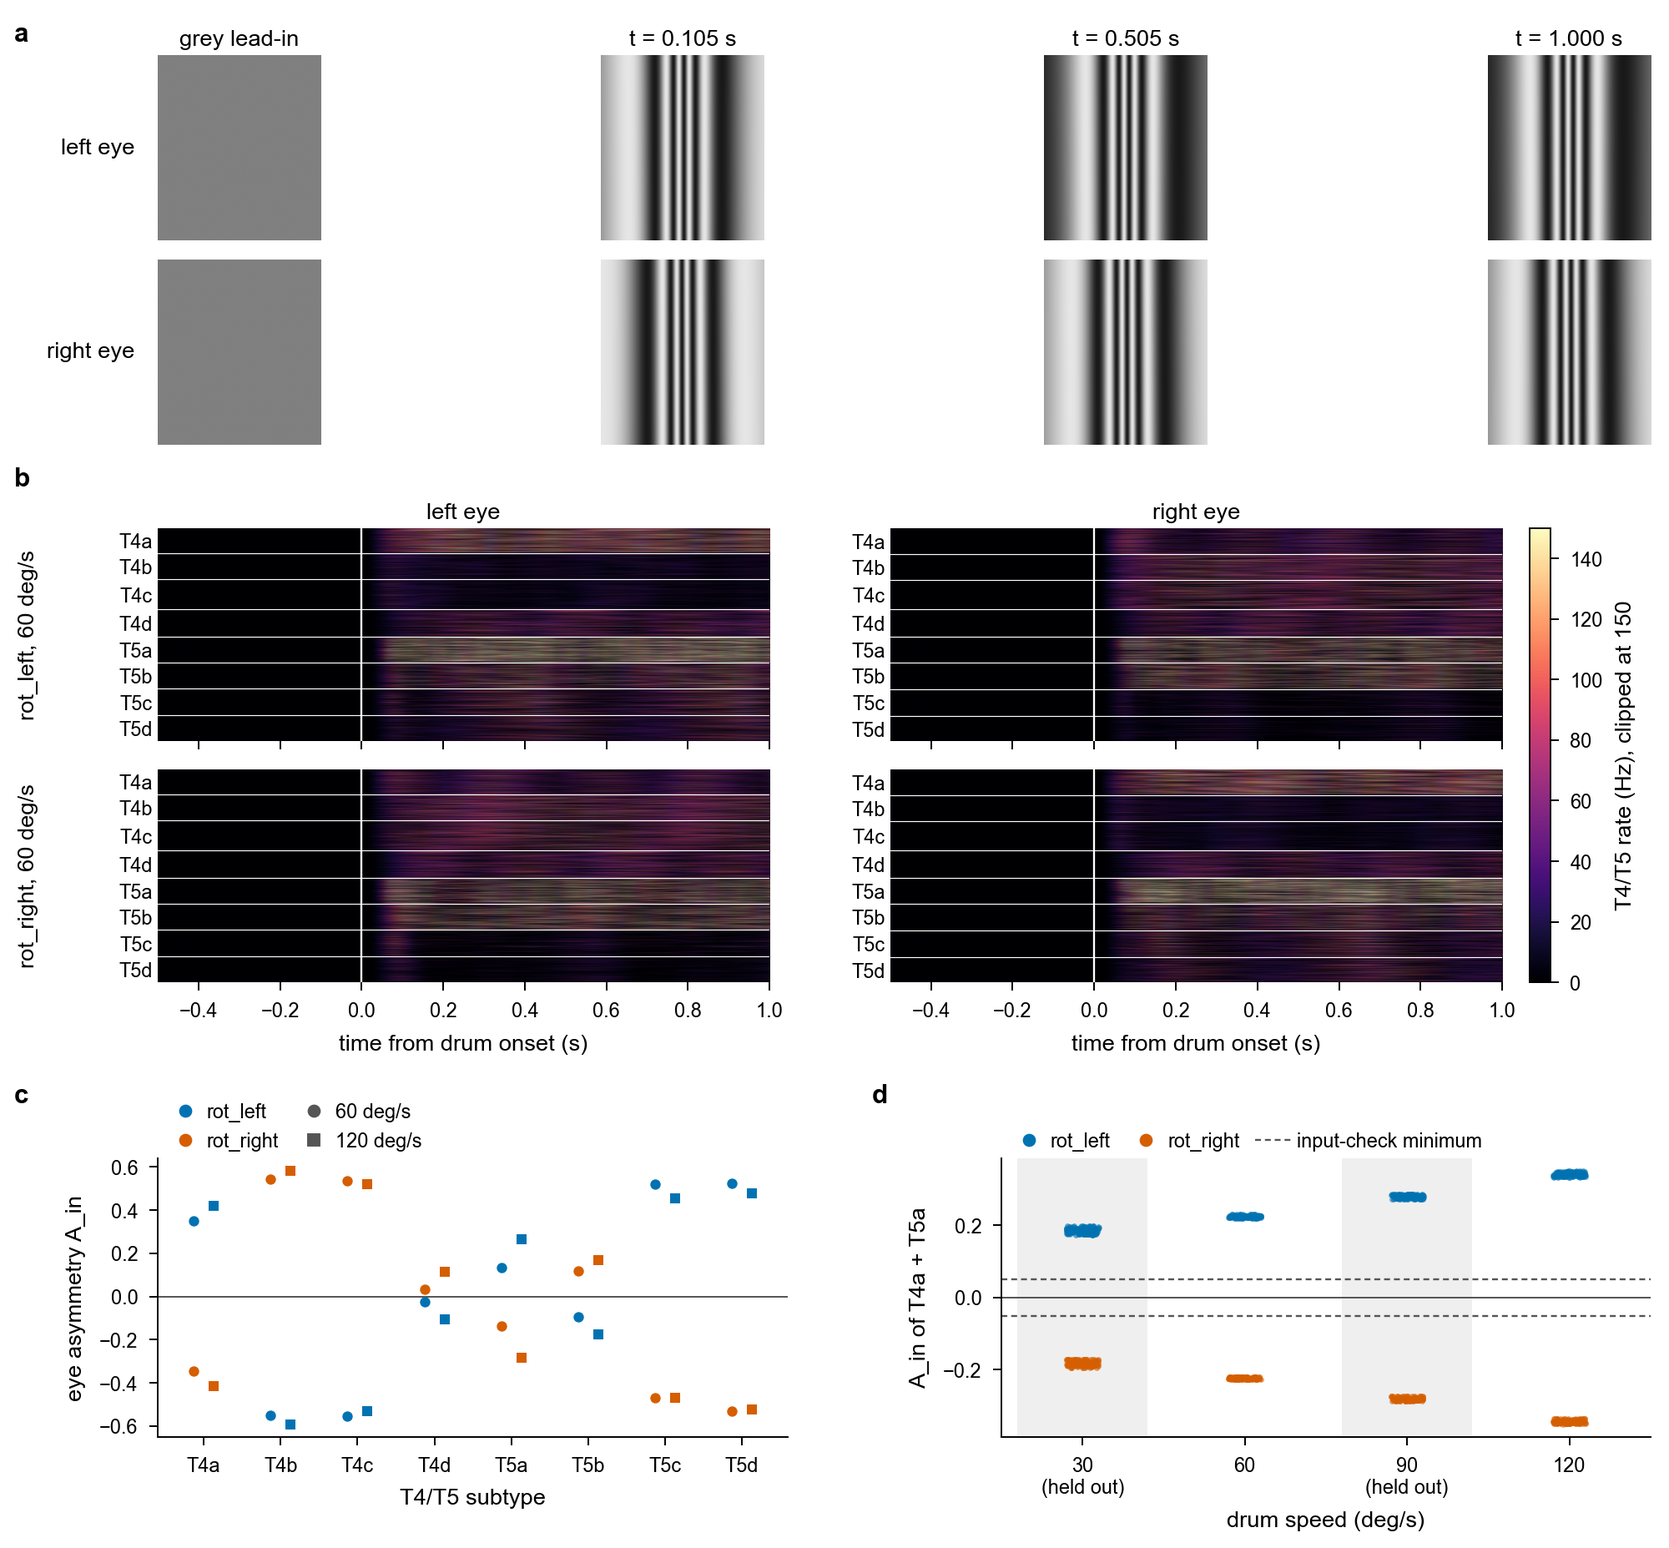
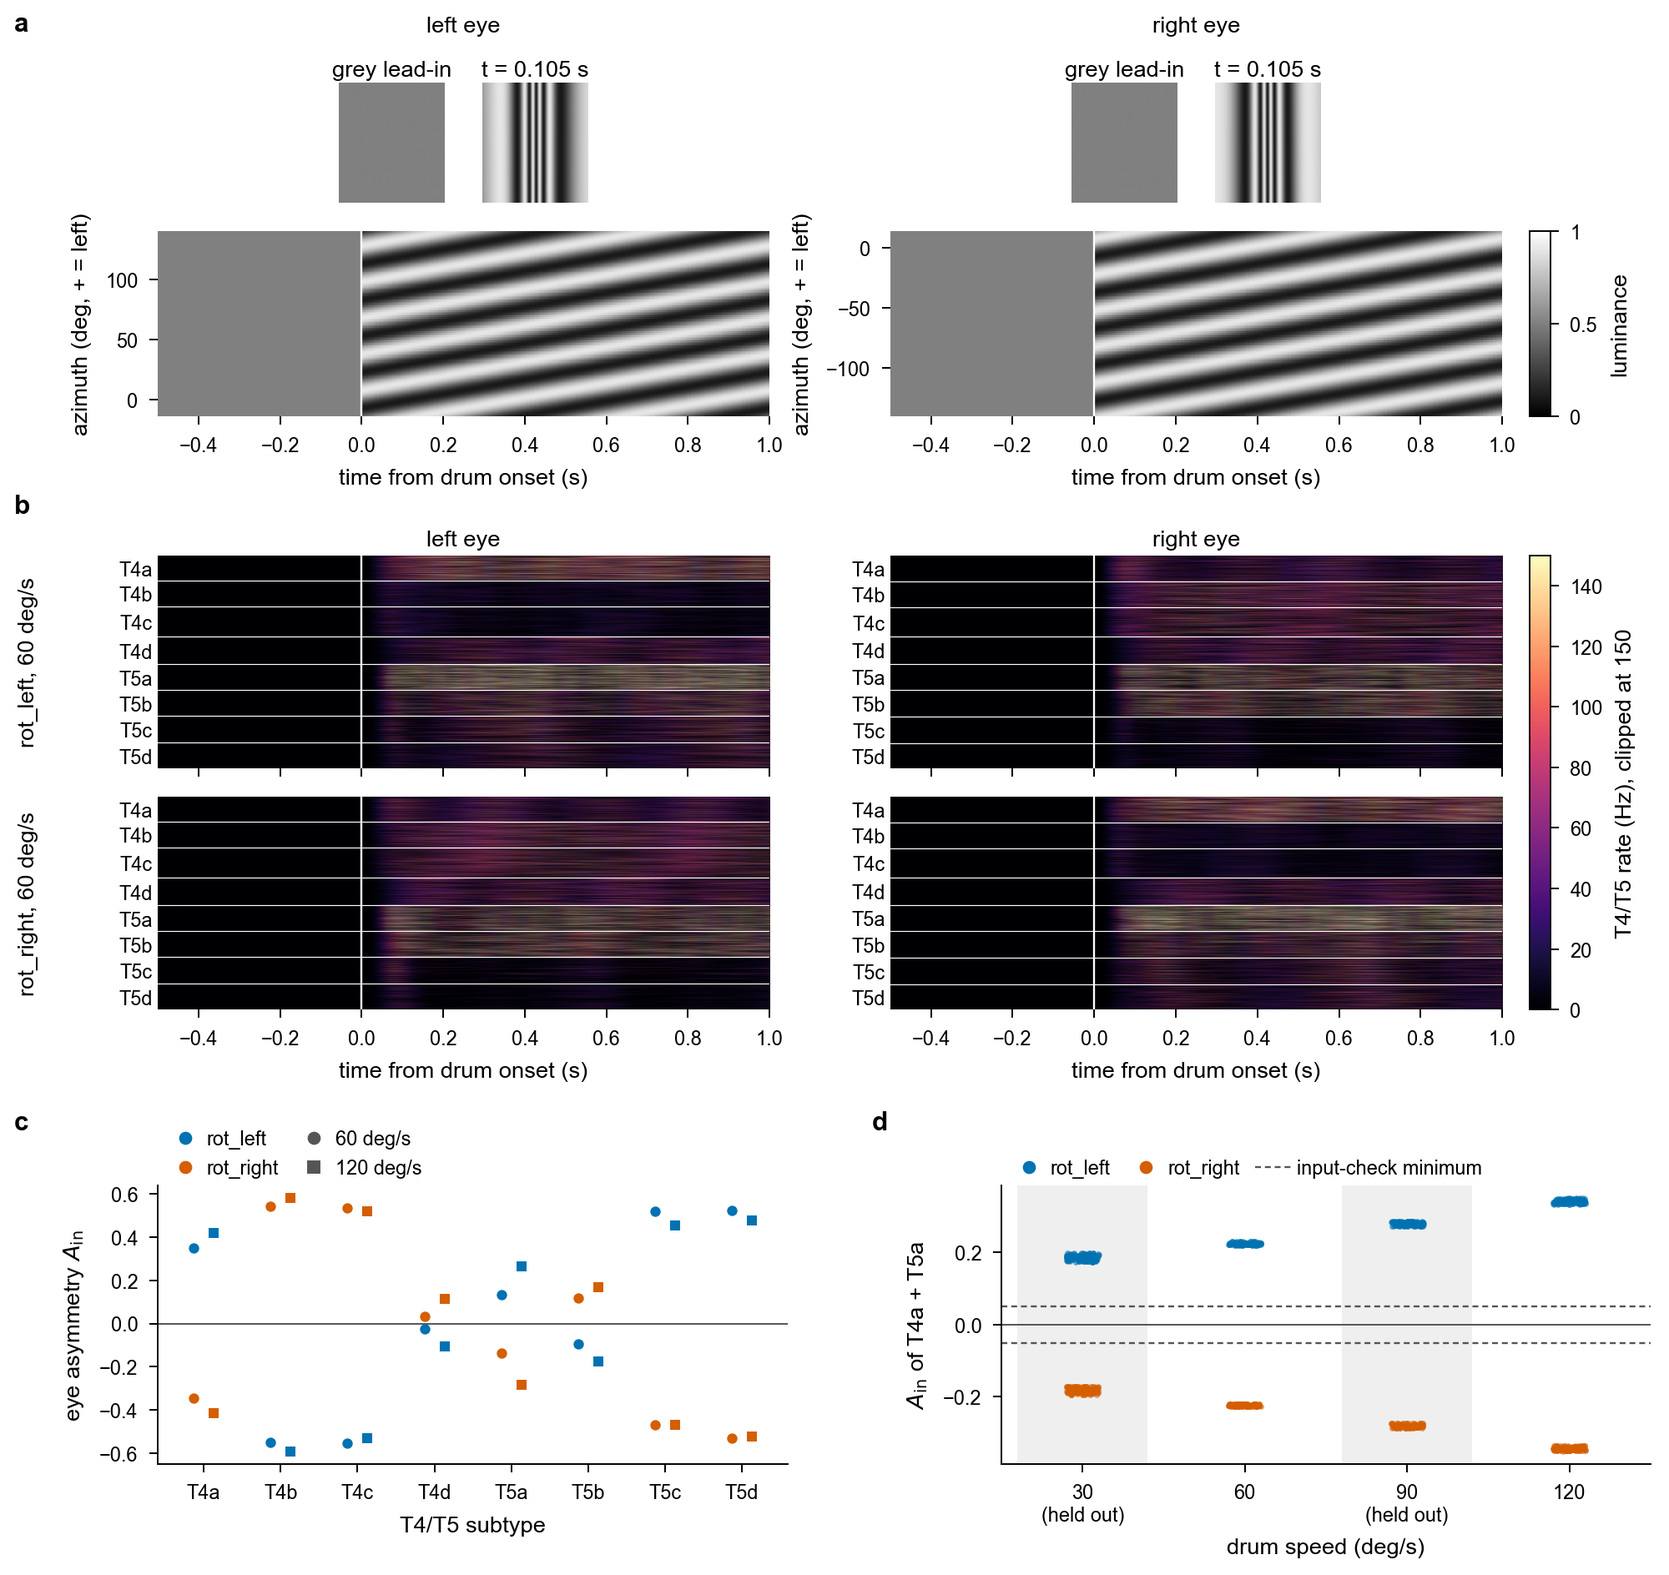
README Figure 7a as a space-time plot of the middle image row; A_in with a subscript
At 60 deg/s the grating repeats every 0.5 s, so the frames at 0.505 s and 1.000 s were almost identical and panel a
showed no motion. Panel a now has one column per eye, aligned with its heat maps in b: the grey lead-in and first
stimulus-time images, and below them a space-time plot of row H // 2 of every frame of the trial against the azimuth
of tasks/t0_stimuli.py (+ = left; monotonic along the row, drawn with pcolormesh), each interval over the same time
bin as in b. eye_images(n_intervals) computes each full frame by the same S.luminance call and keeps only that row;
check_space_time stops unless the row equals the hashed frame at every stored interval. Panels c and d label A_in
with a mathtext subscript. docs/figures/README.md: the fig7 row regenerated (SHA-256, pixels, bytes, description).

diff --git a/scripts/readme_visual_input.py b/scripts/readme_visual_input.py
@@ -33,8 +33,10 @@ figure: Figure 7 of the README, in the style of scripts/readme_figures.py (whose
 render_png it imports; 180 mm wide, exactly 2000 px, at most 1.5 MB; --out inside the local preview folder refused;
 rule 13). It stops unless every render's SHA-256 and that of boundary_meta.npz equal `provenance` of visual_input.json
 and the recomputed eye images equal its `eye_images` entry. Nothing is computed about the test split.
-- a: what the eyes see, rot_left at 60 deg/s, phase 0: the raw eye images of `eye_images()` (grey lead-in and three
-  stimulus times), left and right eye;
+- a: what the eyes see, rot_left at 60 deg/s, phase 0, one column per eye above its heat maps of b: the raw eye images
+  of `eye_images()` at the grey lead-in and the first stimulus time, and a space-time plot of the middle image row
+  (row H // 2 of every frame of the trial, against the azimuth of tasks/t0_stimuli.py, + = left), each interval over
+  the same time bin as in b; the row equals the hashed frames at their intervals;
 - b: the T4/T5 boundary rates of rot_left and rot_right at 60 deg/s, left and right eye, neurons grouped by subtype
   (within a subtype the stored order, as scripts/f5_stageA_preview.py), magma from 0 to `heatmap_vmax_hz`;
 - c: the per-subtype eye asymmetry of `asymmetry`, the four rotation renders;
@@ -78,11 +80,12 @@ KEYS = tuple([R.render_key(s, v, 0) for v in GATE_SPEEDS for s in ROT] + [R.rend
 ROT_KEYS = KEYS[:4]
 EYES = ("L", "R")
 FIG7 = "fig7_visual_input.png"
-FIG7_HEIGHT_MM = 167
+FIG7_HEIGHT_MM = 170
 # Copied from scripts/viz_activity_figure.py (NEG, POS and DIR_COL, the direction colours of Figure 3), not imported:
 # that module imports pandas and viz_anatomy. Okabe-Ito blue and vermillion.
 NEG, POS = "#0072B2", "#D55E00"
 DIR_COL = {"rot_right": POS, "rot_left": NEG}
+A_IN_LABEL = {"c": r"eye asymmetry $A_\mathrm{in}$", "d": r"$A_\mathrm{in}$ of T4a + T5a"}    # y labels of 7c, 7d
 SPEED_MARKER = dict(zip(GATE_SPEEDS, ("o", "s")))         # Figure 7c: marker shape by drum speed
 
 
@@ -236,10 +239,13 @@ def eye_images_spec():
     return ks, consts["N_GREY"], consts["DT"]
 
 
-def eye_images():
-    """The raw eye images of `eye_images()` in scripts/f5_stageA_preview.py, recomputed by its code: (entry, lums). entry
-    is the `eye_images` entry of visual_input.json (hashes, no arrays); lums the luminance arrays (eye, row, column) in
-    the order of entry["images"]. Used by `export` (entry) and `figure` (both)."""
+def eye_images(n_intervals=None):
+    """The raw eye images of `eye_images()` in scripts/f5_stageA_preview.py, recomputed by its code: (entry, lums,
+    space_time). entry is the `eye_images` entry of visual_input.json (hashes, no arrays); lums the luminance arrays
+    (eye, row, column) in the order of entry["images"]. With n_intervals, space_time holds Figure 7a's space-time data:
+    row H // 2 of the full frame at every interval 0..n_intervals-1, each frame computed by the same S.luminance call
+    and dropped after its row is kept (rows, (eye, interval, column)), and the azimuth of that row (deg, + = left, of
+    S.azimuth); otherwise None. Used by `export` (entry) and `figure` (all three)."""
     import mujoco
 
     from body.flygym_body import FlightBody
@@ -252,16 +258,23 @@ def eye_images():
     b = FlightBody(spawn_pos=(0, 0, 100), spawn_yaw=0.0, legs="tuck", enable_vision=True)
     mujoco.mj_forward(b.m, b.d)
     rays = S.camera_rays(b.m, b.d, b.root)
-    out, lums = [], []
-    for k in ks:
+    mid = rays.shape[1] // 2
+    out, lums, rows = {}, {}, []
+    for k in sorted(set(ks) | set(range(n_intervals or 0))):
         t = None if k < n_grey else (k - n_grey + 1) * dt
         lum = S.luminance(2, t, rays, tf_hz=60 / S.WAVELENGTH_DEG)
-        lums.append(lum)
-        out.append(dict(interval=k, t_s=t, shape=list(lum.shape), dtype=str(lum.dtype),
-                        sha256=hashlib.sha256(np.ascontiguousarray(lum).tobytes()).hexdigest()))
-    return dict(key=key, source="scripts/f5_stageA_preview.py eye_images() (recomputed; the images are not stored)",
-                eyes=["left", "right"], hash_of="np.ascontiguousarray(lum).tobytes(), lum of shape (eye, row, column)",
-                images=out), lums
+        if k < (n_intervals or 0):
+            rows.append(lum[:, mid].copy())
+        if k in ks:
+            lums[k] = lum
+            out[k] = dict(interval=k, t_s=t, shape=list(lum.shape), dtype=str(lum.dtype),
+                          sha256=hashlib.sha256(np.ascontiguousarray(lum).tobytes()).hexdigest())
+    entry = dict(key=key, source="scripts/f5_stageA_preview.py eye_images() (recomputed; the images are not stored)",
+                 eyes=["left", "right"], hash_of="np.ascontiguousarray(lum).tobytes(), lum of shape (eye, row, column)",
+                 images=[out[k] for k in ks])
+    space_time = None if not n_intervals else dict(rows=np.stack(rows, axis=1), row=mid,
+                                                   azimuth_deg=S.azimuth(rays[:, mid]))
+    return entry, [lums[k] for k in ks], space_time
 
 
 def export_csv():
@@ -368,14 +381,23 @@ def check_inputs(d, renders=RENDERS, meta=META):
         raise SystemExit("inputs differ from visual_input.json (nothing written):\n" + "\n".join(bad))
 
 
+def check_space_time(entry, lums, space_time):
+    """Stop unless, at every interval of entry["images"], the space-time row equals row space_time["row"] of the hashed
+    frame (np.array_equal)."""
+    for im, lum in zip(entry["images"], lums):
+        a, b = space_time["rows"][:, im["interval"]], lum[:, space_time["row"]]
+        if not (a.dtype == b.dtype and np.array_equal(a, b)):
+            raise SystemExit(f"interval {im['interval']}: the space-time row differs from the hashed frame")
+
+
 def read_csv(path=OUT_CSV):
     with open(path, newline="") as f:
         return list(csv.DictReader(f))
 
 
-def draw_fig7(d, rows, lums, rates, tcode, fw_types, held_out):
-    """d: visual_input.json; rows: input_checks.csv; lums: the eye images in the order of d["eye_images"]["images"];
-    rates[key][eye]: the renders of the heat-map keys; tcode, fw_types: boundary_meta.npz; held_out: drum speeds."""
+def draw_fig7(d, rows, lums, space_time, rates, tcode, fw_types, held_out):
+    """d: visual_input.json; rows: input_checks.csv; lums, space_time: of eye_images(); rates[key][eye]: the renders of
+    the heat-map keys; tcode, fw_types: boundary_meta.npz; held_out: drum speeds."""
     import matplotlib.pyplot as plt
     from matplotlib.lines import Line2D
 
@@ -389,36 +411,58 @@ def draw_fig7(d, rows, lums, rates, tcode, fw_types, held_out):
     def letter(x, y, lab):
         fig.text(x / W, y / H, lab, ha="left", va="bottom", fontsize=F.FONT_PT + 1, fontweight="bold")
 
-    # a: what the eyes see
-    imgs = d["eye_images"]["images"]
     # rows placed from the bottom (mm): c and d, then b, then a
     yc, hc = 12.0, 30.0                                         # c, d axes
     hh, hw, gap = 23.0, 66.0, 3.0                               # b heat maps
+    xb = (17.0, 17.0 + hw + 13.0)                               # x of each eye's column in a and b
     yb_top = yc + hc + 19.0 + 2 * hh + gap
-    ih = 20.0                                                   # a images
+    ys, hs = yb_top + 15.0, 20.0                                # a, space-time plots
+    imgs = d["eye_images"]["images"]
+    ih = 13.0                                                   # a, eye images
     iw = ih * imgs[0]["shape"][2] / imgs[0]["shape"][1]
-    x0, x1 = 17.0, W - 2.0
-    step = (x1 - x0 - iw) / (len(imgs) - 1)
-    ya = (yb_top + 9.0 + ih + 2.0, yb_top + 9.0)
-    for j, (im, lum) in enumerate(zip(imgs, lums)):
-        for e, side in enumerate(d["eye_images"]["eyes"]):
-            ax = ax_mm(x0 + j * step, ya[e], iw, ih)
-            ax.imshow(lum[e], cmap="gray", vmin=0, vmax=1)
+    yi = ys + hs + 3.0
+    n_grey, dt = d["window"]["n_grey"], d["window"]["interval_ms"] / 1000
+
+    # a: what the eyes see; top, the grey lead-in and the first stimulus time; below, the middle image row over time
+    shown = [next(j for j, im in enumerate(imgs) if im["t_s"] is None),
+             next(j for j, im in enumerate(imgs) if im["t_s"] is not None)]
+    rows_st, az = space_time["rows"], space_time["azimuth_deg"]
+    t_edges = (np.arange(rows_st.shape[1] + 1) - n_grey) * dt         # interval k over the same bin as in b
+    for c, side in enumerate(d["eye_images"]["eyes"]):
+        xs = xb[c] + (hw - 2 * iw - 4.0) / 2
+        for i, j in enumerate(shown):
+            ax = ax_mm(xs + i * (iw + 4.0), yi, iw, ih)
+            ax.imshow(lums[j][c], cmap="gray", vmin=0, vmax=1)
             ax.set_axis_off()
-            if e == 0:
-                ax.set_title("grey lead-in" if im["t_s"] is None else f"t = {im['t_s']:.3f} s", pad=3)
-            if j == 0:
-                fig.text((x0 - 2.5) / W, (ya[e] + ih / 2) / H, f"{side} eye", ha="right", va="center")
-    letter(1.5, ya[0] + ih + 1.0, "a")
+            ax.set_title("grey lead-in" if imgs[j]["t_s"] is None else f"t = {imgs[j]['t_s']:.3f} s", pad=2)
+        fig.text((xb[c] + hw / 2) / W, (yi + ih + 5.0) / H, f"{side} eye", ha="center", va="bottom")
+        if not (np.all(np.diff(az[c]) < 0) or np.all(np.diff(az[c]) > 0)):
+            raise SystemExit(f"{side} eye: the azimuth of the middle row is not monotonic")
+        mids = (az[c][1:] + az[c][:-1]) / 2
+        a_edges = np.r_[2 * az[c][0] - mids[0], mids, 2 * az[c][-1] - mids[-1]]
+        ax = ax_mm(xb[c], ys, hw, hs)
+        st = ax.pcolormesh(t_edges, a_edges, rows_st[c].T, cmap="gray", vmin=0, vmax=1, shading="flat")
+        ax.set_xlim(t_edges[0], t_edges[-1])
+        ax.set_ylim(a_edges.min(), a_edges.max())                      # positive azimuth (left) up
+        ax.axvline(0, color="white", lw=0.6)
+        for sp in ax.spines.values():
+            sp.set_visible(False)
+        ax.set_xlabel("time from drum onset (s)")
+        ax.set_ylabel("azimuth (deg, + = left)")
+    cax = ax_mm(xb[1] + hw + 3.0, ys, 2.2, hs)
+    cb = fig.colorbar(st, cax=cax)
+    cb.set_ticks(np.linspace(st.norm.vmin, st.norm.vmax, 3), labels=[f"{v:g}" for v in
+                                                                      np.linspace(st.norm.vmin, st.norm.vmax, 3)])
+    cb.set_label("luminance")
+    cb.outline.set_linewidth(0.5)
+    letter(1.5, yi + ih + 5.0, "a")
 
     # b: T4/T5 boundary rates
     subtypes = d["subtypes"]
-    n_grey, dt = d["window"]["n_grey"], d["window"]["interval_ms"] / 1000
     vmax = d["heatmap_vmax_hz"]["value"]
     if vmax != d["heatmap_vmax_hz"]["r_clip_hz"]:
         raise SystemExit("heatmap_vmax_hz is not the rate clip; the colour-bar label would be wrong")
     keys = d["heatmap_vmax_hz"]["keys"]
-    xb = (17.0, 17.0 + hw + 13.0)
     t45 = [fw_types.index(t) for t in subtypes]
     for r, key in enumerate(keys):
         y = yb_top - (r + 1) * hh - r * gap
@@ -469,7 +513,7 @@ def draw_fig7(d, rows, lums, rates, tcode, fw_types, held_out):
     axc.set_xticks(x, subtypes)
     axc.set_xlim(-0.6, len(subtypes) - 0.4)
     axc.set_xlabel("T4/T5 subtype")
-    axc.set_ylabel("eye asymmetry A_in")
+    axc.set_ylabel(A_IN_LABEL["c"])
     hd = [Line2D([], [], ls="", marker="o", color=DIR_COL[s], ms=3, label=s) for s in ROT]
     hd += [Line2D([], [], ls="", marker=m, color=F.INK2, ms=3, label=f"{v} deg/s") for v, m in SPEED_MARKER.items()]
     axc.legend(handles=hd, frameon=False, ncol=2, loc="lower left", bbox_to_anchor=(0.0, 1.0), handletextpad=0.1,
@@ -495,7 +539,7 @@ def draw_fig7(d, rows, lums, rates, tcode, fw_types, held_out):
     axd.set_xticks(speeds, [f"{v}\n(held out)" if v in held_out else f"{v}" for v in speeds])
     axd.set_xlim(speeds[0] - 1.25 * half, speeds[-1] + 1.25 * half)
     axd.set_xlabel("drum speed (deg/s)")
-    axd.set_ylabel("A_in of T4a + T5a")
+    axd.set_ylabel(A_IN_LABEL["d"])
     hd = [Line2D([], [], ls="", marker="o", color=DIR_COL[s], ms=3, label=s) for s in ROT]
     hd += [Line2D([], [], color=F.INK2, lw=0.6, ls=(0, (3, 2)), label="input-check minimum")]
     axd.legend(handles=hd, frameon=False, ncol=3, loc="lower left", bbox_to_anchor=(0.0, 1.0), handletextpad=0.1,
@@ -518,20 +562,24 @@ def figure(out=None, overwrite=False):
         raise SystemExit(f"{path} exists; pass --overwrite to replace it (nothing written)")
     d = json.loads(OUT_JSON.read_text())
     check_inputs(d)
-    entry, lums = eye_images()
-    if entry != d["eye_images"]:
-        raise SystemExit("recomputed eye images differ from visual_input.json (nothing written)")
-    print("renders, boundary_meta.npz and eye images equal visual_input.json")
-    tcode, fw_types, _ = load_meta()
     keys = d["heatmap_vmax_hz"]["keys"]
     rates = {k: dict(np.load(RENDERS / f"{k}.npz")) for k in keys}
+    n_int = {rates[k][e].shape[0] for k in keys for e in EYES}
+    if len(n_int) != 1:
+        raise SystemExit(f"the renders differ in length: {n_int}")
+    entry, lums, space_time = eye_images(n_int.pop())
+    if entry != d["eye_images"]:
+        raise SystemExit("recomputed eye images differ from visual_input.json (nothing written)")
+    check_space_time(entry, lums, space_time)
+    print("renders, boundary_meta.npz and eye images equal visual_input.json; space-time rows equal the hashed frames")
+    tcode, fw_types, _ = load_meta()
     from train import f5_stageA as A
     rows = read_csv()
     used = [r for r in rows if r["split"] in ("train", "val")]
     for v in sorted({int(r["speed_deg_s"]) for r in used}):
         print(f"panel d, {v} deg/s: n = {sum(int(r['speed_deg_s']) == v for r in used)} seed groups (train + val)")
     fam = F.font_setup()
-    fig = draw_fig7(d, rows, lums, rates, tcode, fw_types, sorted(A.HELD_OUT.values()))
+    fig = draw_fig7(d, rows, lums, space_time, rates, tcode, fw_types, sorted(A.HELD_OUT.values()))
     png = F.render_png(fig)
     plt.close(fig)
     if len(png) > F.MAX_BYTES:

diff --git a/tests/test_readme_visual_input_figure.py b/tests/test_readme_visual_input_figure.py
@@ -1,7 +1,9 @@
 """Figure 7 (`figure` of scripts/readme_visual_input.py): the direction colours copied from scripts/viz_activity_figure.py,
-the SHA-256 refusal on a changed render, rule 13 and the preview guard (both before any input is read), the refactored
-eye_images() giving the committed `eye_images` entry (needs MuJoCo), and a run into a temporary folder (2000 px wide,
-at most 1.5 MB; needs the renders in runs/f5/stageA/readme_renders/, which a fresh clone does not have)."""
+the SHA-256 refusal on a changed render, rule 13 and the preview guard (both before any input is read), the A_in axis
+labels (mathtext subscript), the space-time check (a row that differs from the hashed frame stops), the refactored
+eye_images() giving the committed `eye_images` entry and space-time rows equal to row H // 2 of the hashed frames
+(needs MuJoCo), and a run into a temporary folder (2000 px wide, at most 1.5 MB; needs the renders in
+runs/f5/stageA/readme_renders/, which a fresh clone does not have)."""
 import ast
 import hashlib
 import importlib.util
@@ -11,6 +13,7 @@ import subprocess
 import sys
 from pathlib import Path
 
+import numpy as np
 import pytest
 
 from conftest import ROOT
@@ -107,13 +110,49 @@ def test_out_inside_the_preview_folder_is_refused(tmp_path):
     assert not target.exists()
 
 
+def test_a_in_labels_use_a_mathtext_subscript():
+    from matplotlib.mathtext import MathTextParser
+    for lab in V.A_IN_LABEL.values():
+        assert r"$A_\mathrm{in}$" in lab and "A_in" not in lab.replace(r"$A_\mathrm{in}$", "")
+        MathTextParser("agg").parse(lab)
+
+
+def _fake_space_time():
+    rng = np.random.default_rng(0)
+    frames = [rng.random((2, 6, 5)) for _ in range(3)]
+    entry = dict(images=[dict(interval=k) for k in (1, 4, 7)])
+    rows = rng.random((2, 9, 5))
+    for im, f in zip(entry["images"], frames):
+        rows[:, im["interval"]] = f[:, 3]
+    return entry, frames, dict(rows=rows, row=3)
+
+
+def test_check_space_time_passes_on_equal_rows():
+    V.check_space_time(*_fake_space_time())
+
+
+def test_check_space_time_refuses_a_differing_row():
+    entry, frames, st = _fake_space_time()
+    st["rows"][1, entry["images"][-1]["interval"], 0] += 1e-15
+    with pytest.raises(SystemExit, match="differs from the hashed frame"):
+        V.check_space_time(entry, frames, st)
+
+
 @pytest.mark.skipif(not HAVE_MUJOCO, reason="MuJoCo / FlyGym are not installed")
 def test_eye_images_give_the_committed_entry():
-    entry, lums = V.eye_images()
-    assert entry == VI["eye_images"]                    # what `export` writes, unchanged by the refactor
+    entry, lums, st = V.eye_images()
+    assert entry == VI["eye_images"] and st is None     # what `export` writes, unchanged by the refactor
     assert len(lums) == len(entry["images"])
     for im, lum in zip(entry["images"], lums):
         assert list(lum.shape) == im["shape"] and str(lum.dtype) == im["dtype"]
+    n = VI["window"]["window"][1]                       # the trial length of the input-check window
+    entry2, lums2, st = V.eye_images(n)
+    assert entry2 == entry
+    assert st["rows"].shape == (2, n, im["shape"][2]) and st["row"] == im["shape"][1] // 2
+    V.check_space_time(entry2, lums2, st)
+    for im, lum in zip(entry["images"], lums):
+        assert np.array_equal(st["rows"][:, im["interval"]], lum[:, st["row"]])
+    assert all(np.all(np.diff(a) < 0) or np.all(np.diff(a) > 0) for a in st["azimuth_deg"])
 
 
 @pytest.mark.skipif(not (HAVE_MUJOCO and HAVE_RENDERS), reason="needs MuJoCo and the renders in runs/")

diff --git a/docs/figures/README.md b/docs/figures/README.md
@@ -10,7 +10,7 @@ Copies of finished figures for the repository README and gallery. The originals 
[8 lines of base64/hex data omitted]
